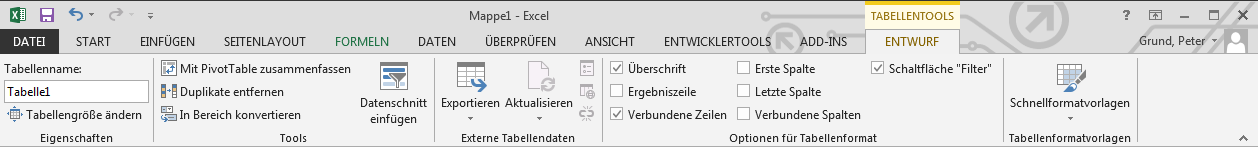
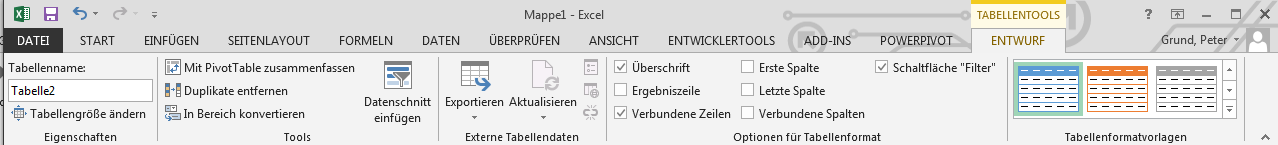
tables added, refactored list-inline item class

diff --git a/excel/css/excel.css b/excel/css/excel.css
@@ -604,16 +604,33 @@ div.alert-warning {
 }
 #documentinspector li {
 	font-size: smaller;
+}
+.list-inline.item>li {
 	color:whitesmoke;
 	text-shadow: 2px 2px 3px black;
 }
-#documentinspector li[tooltip]:hover:after {
+.list-inline.item>li[tooltip]:hover:after {
 	color: black;
 	background-color: whitesmoke;
 	
 	content: attr(tooltip);
 	font-family:'Courier New', Arial;
 
+}
+#tableformatoptions li[tooltip]:hover:after {
+	position:absolute;
+	bottom: 50px;
+	left: 52px;
+
+	max-width:420px;
+	min-height:50px;
+
+  	z-index: 20px;
+  	padding: 15px;	
+
+}
+#documentinspector li[tooltip]:hover:after {
+	
 	position:absolute;
 	top: 70px;
 	right: 50px;
@@ -624,10 +641,6 @@ div.alert-warning {
   	z-index: 20px;
   	padding: 15px;	
 
-	border: solid thin black;
-	-moz-border-radius: 10px;
-  	-webkit-border-radius: 10px;
-  	border-radius: 10px;  	
 }
 #imgcelladdress {	
 	padding-left: 20px;
@@ -672,6 +685,11 @@ div.alert-warning {
 	display:block;
 	background-image: url("../img/ribbon_data.png");
 	margin:10px;
+}
+.ribbon-design-image {
+	display:block;
+	background-image: url("../img/ribbon_design.png");
+	margin:10px;	
 }
 #rowscol0 {	
 	width:100px;
@@ -880,32 +898,51 @@ ol.item li:before {
 	padding-left: 5px;
 }
 ol.item li:nth-child(1):before,
-ol.item li:nth-child(7):before{
+ol.item li:nth-child(7):before,
+.list-inline.item>li:nth-child(1),
+.list-inline.item>li:nth-child(7),
+.list-inline.item>li:nth-child(13){
   color:white;
   background-color: rgb(189,207,49);
 }
 ol.item li:nth-child(2):before,
-ol.item li:nth-child(8):before {    
+ol.item li:nth-child(8):before,
+.list-inline.item>li:nth-child(2),
+.list-inline.item>li:nth-child(8),
+.list-inline.item>li:nth-child(14) {    
    color:white;
    background-color: rgb(54,111,54);
 }
 ol.item li:nth-child(3):before,
-ol.item li:nth-child(9):before {
+ol.item li:nth-child(9):before,
+.list-inline.item>li:nth-child(3),
+.list-inline.item>li:nth-child(9),
+.list-inline.item>li:nth-child(15) {
    color:white;
    background-color: rgb(251,195,17);
 }
-ol.item li:nth-child(4):before{
+ol.item li:nth-child(4):before,
+.list-inline.item>li:nth-child(4),
+.list-inline.item>li:nth-child(10),
+.list-inline.item>li:nth-child(16){
    color:white;
    background-color:rgb(57,187,236);
 }
-ol.item li:nth-child(5):before{
+ol.item li:nth-child(5):before,
+.list-inline.item>li:nth-child(5),
+.list-inline.item>li:nth-child(11),
+.list-inline.item>li:nth-child(17){
    color:white;
    background-color: rgb(204,204,204);
 }
-ol.item li:nth-child(6):before{
+ol.item li:nth-child(6):before,
+.list-inline.item>li:nth-child(6),
+.list-inline.item>li:nth-child(12),
+.list-inline.item>li:nth-child(18){
    color:white;
    background-color:rgb(127,127,127);
 }
+
 
 #filter01 {
 	margin-right:40px;
@@ -939,6 +976,25 @@ ol.item li:nth-child(6):before{
 	width: 160px;
 	background-position: -570px -60px;
 	margin-right: 30px;
+}
+#tableadddrag {
+	max-width:45%;
+	margin-left:10px;
+}
+#table02 {
+	height: 85px;
+	width: 200px;
+	background-position: -160px -60px;
+	margin-right: 30px;
+}
+#table03 {
+	position:absolute;
+	right: 50px;
+	bottom: 120px;
+
+	height: 85px;
+	width: 400px;
+	background-position: -610px -60px;	
 }
 /**
 	starting print media 
@@ -1018,7 +1074,8 @@ ol.item li:nth-child(6):before{
     	padding: 0px;
     }
 	.ribbon-home-image, .ribbon-pagelayout-image, 
-	.ribbon-formula-image, .ribbon-view-image, .ribbon-data-image {
+	.ribbon-formula-image, .ribbon-view-image, .ribbon-data-image,
+	.ribbon-design-image {
 		display: none;		
 	}
     #ifquickaccesstext, #ifmyaccounttext, #ifribbontext,

diff --git a/excel/index.html b/excel/index.html
@@ -2573,24 +2573,46 @@
 		</div>
 		<div id="modifytable" class="step slide" data-x="4500" data-y="3000" data-rotate-y="90" data-z="-2000">
 			<header>Tabellen editieren</header>
+			<img id="tableadddrag" src="./img/table_add_drag.png" alt="Tabelle erweitern" class="pull-right"/>
 			<dl>
 				<dt>hinzufügen</dt>
 				<dd>Wenn sie eine weitere Zeile hinzufügen möchten, <em>tragen</em> sie ihre Daten einfach in der <em>ersten Zeile unterhalb</em> bzw. <em>der ersten Spalte rechts neben</em> der Tabelle ein. Excel erweitert die Tabelle automatisch.</dd>
 				<dd>Alternativ können sie einfach mit <em>gedrückter Maustaste</em> die <em>rechte unteren Ecke der Tabelle</em> ziehen. Die Tabelle wird auf den neuen Bereich erweitert.</dd>
+				<dt>löschen</dt>
 				<dd>Eine Verkleinerung ist ebenfalls möglich mit dieser Vorgehensweise, allerdings können nur <em>leere Zellen</em> entfernt werden.</dd>
-			</dl>
-			<ul>
-				<li>Zeilen/Spalten hinzufügen</li>
-				<li>Löschen</li>				
-			</ul>
+				<dd>
+				<div id="table02" class="ribbon-design-image pull-left"></div> 
+				Um die gesamte Tabelle zu löschen, <em>ohne die Daten zu verlieren</em> bietet Excel auf dem <a href="#/ribbon">Menüband</a> im Kontextmenü <em>Tabellentools Entwurf</em> den Befehl <em>in Bereich konvertieren</em></dd>
+			</dl>			
 			<footer></footer>
 		</div>
 		<div id="tablestyle" class="step slide" data-x="4500" data-y="3000" data-rotate-y="90" data-z="-3250">
 			<header>Tabellen Formatvorlagen</header>
-				<ul>
-					<li>Tabellenformatvorlagen auswählen</li>
-					<li>Stiloptionen ändern</li>
-				</ul>	
+			<dl>
+				<dt>Tabellenformatvorlagen auswählen</dt>
+				<dd>
+					<ol class="item">
+						<li>Wählen sie eine beliebige Zelle in der Tabelle</li>
+						<li>Im <a href="#/ribbon">Menüband</a> unter <em>Tabellentools Entwurf</em> finden sie verschiedene <em>Tabellenformatvorlagen</em></li>
+						<li>Halten sie die Maus über eine Vorlage um eine <em>Vorschau</em> zu sehen.</li>
+					</ol>
+				</dd>
+				<dt>Optionen für das Tabellenformat</dt>
+				<dd>
+					Ebenfalls im Menüband finden sie <em>Kontrollkästchen</em> für die verschiedenen Formatierungsoptionen der Tabelle.			
+				</dd>
+				<dd>
+					<div id="table03" class="ribbon-design-image pull-right"></div>
+					<ul id="tableformatoptions" class="list-inline item">
+						<li tooltip="Zeile am Tabellenende in der die Spaltenergebnisse aufgeführt werden">Ergebniszeile</li>
+						<li tooltip="obere Zeile der Tabelle wird als Kopzeile besonders markiert">Überschriften</li>
+						<li tooltip="abwechselnde Formatierung für Zeile/Spalten">Verbundene Zeilen / Spalten</li>
+						<li tooltip="besondere Formatierung der ersten / letzten Spalte">Erste / Letzte Spalte</li>
+						<li tooltip="anzeigen/verstecken der Schaltfläche für Filter der Tabelle">Schaltfläche Filter</li>
+					</ul>
+				</dd>
+			</dl>				
+				
 			<footer></footer>
 		</div>		
 		
